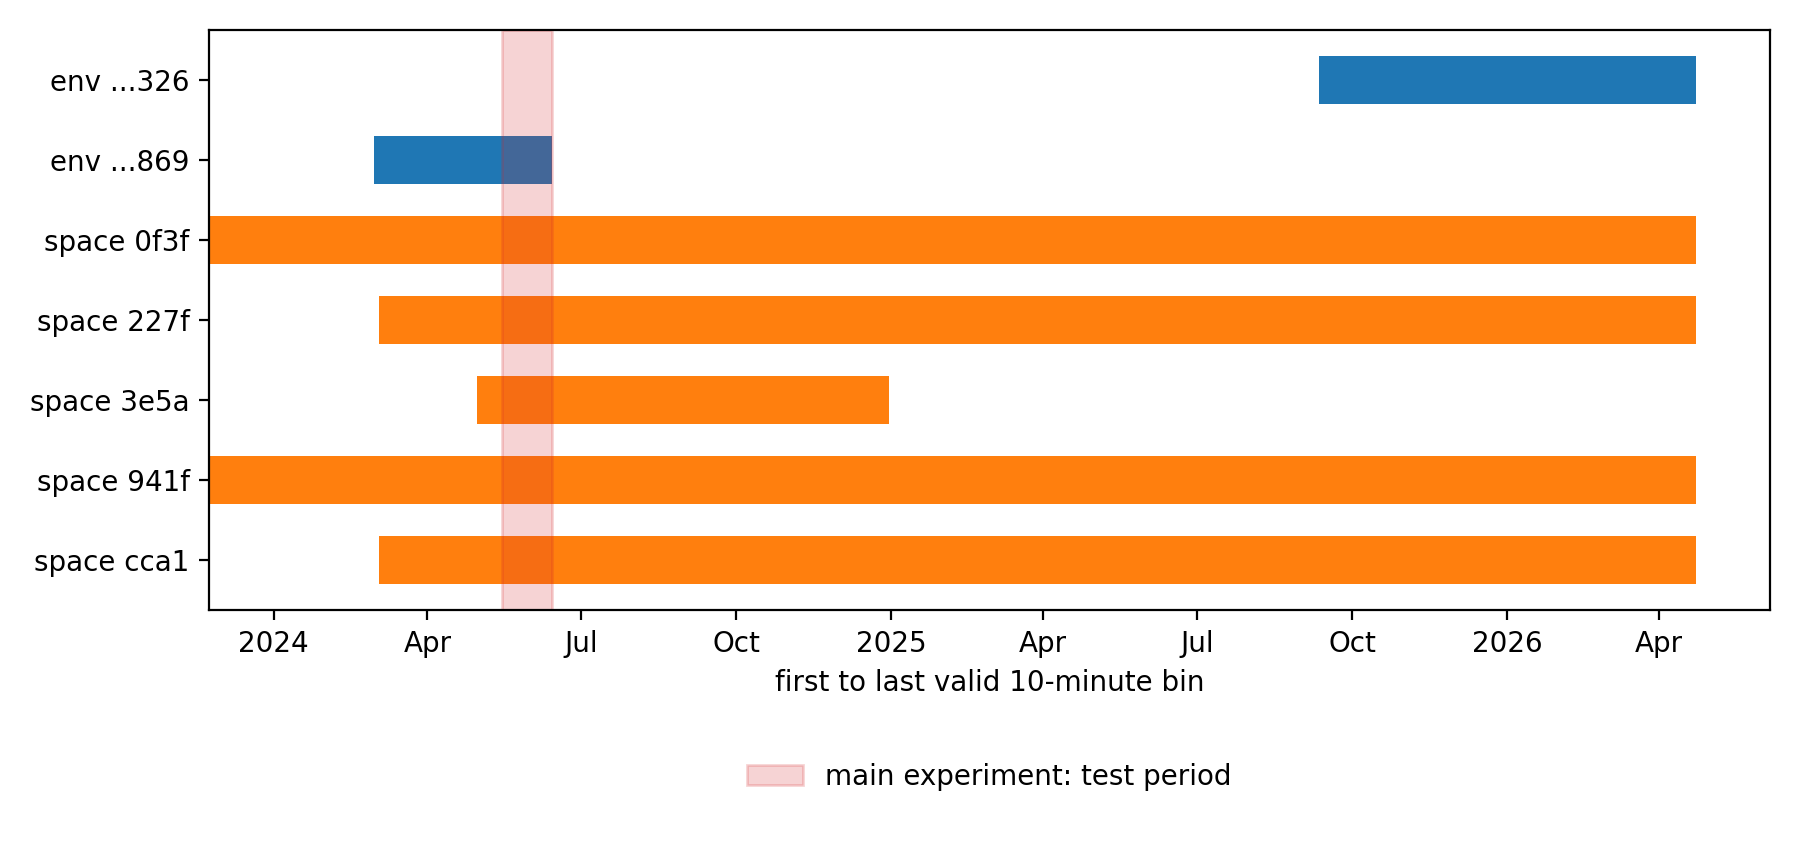
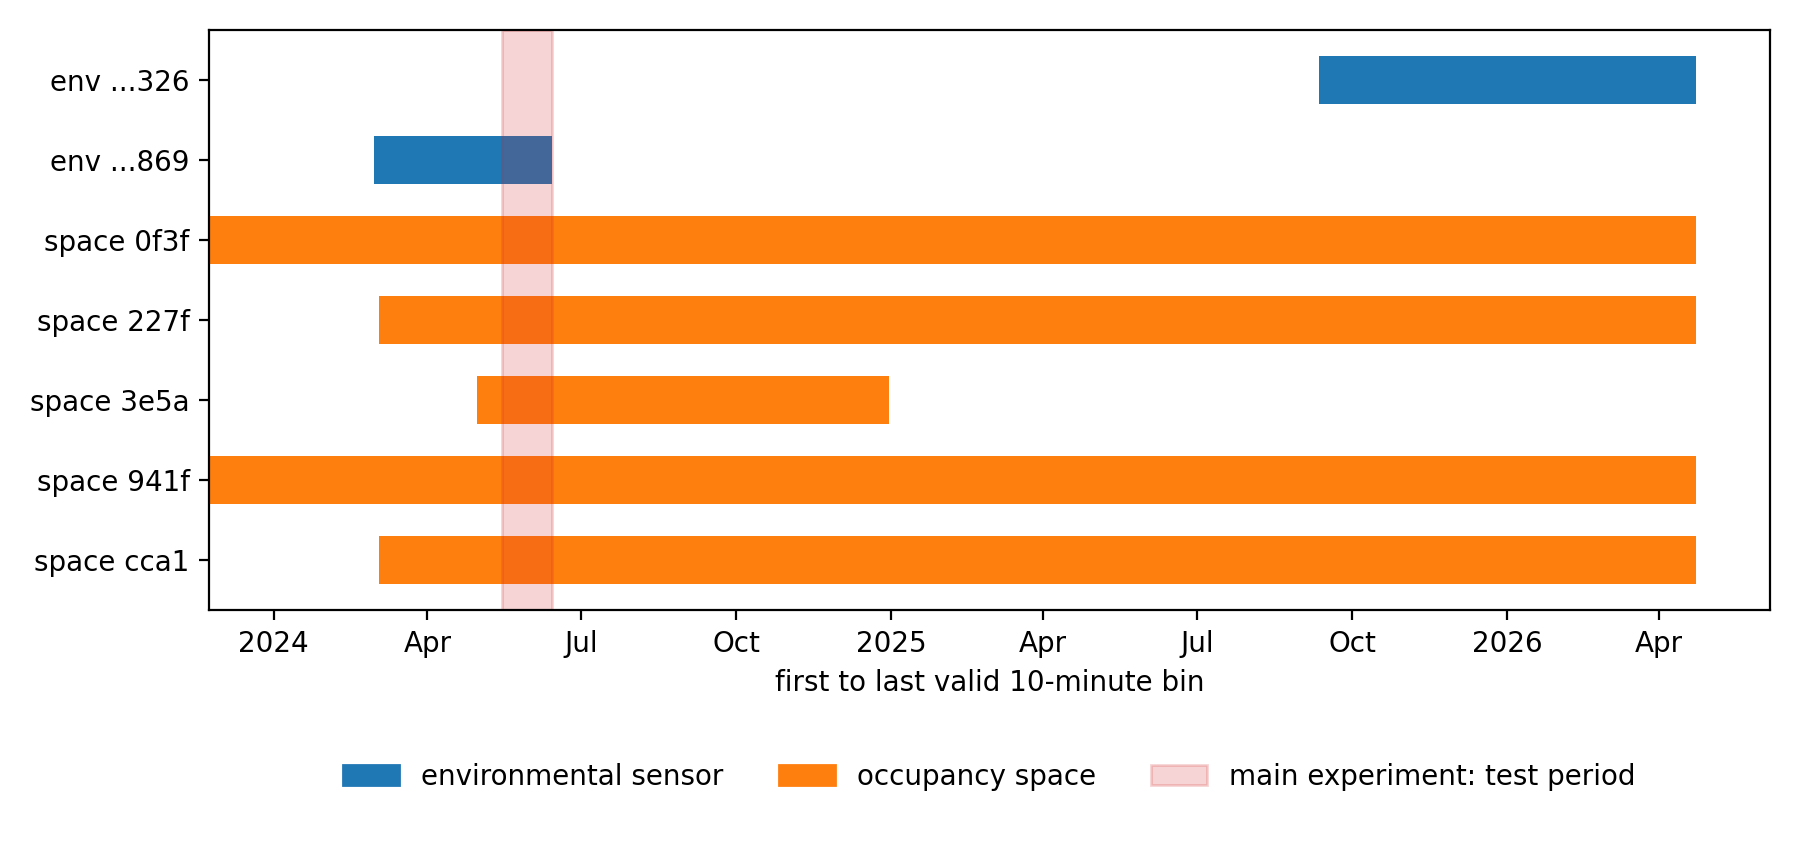
Improve figure readability: tick labels, legend, shared y-axis

Changed region(s): [[0.1867, 0.8892, 0.9022, 0.9505]]

diff --git a/src/occenv/figures.py b/src/occenv/figures.py
@@ -20,6 +20,7 @@ import matplotlib
 matplotlib.use("Agg")                      # no display needed
 import matplotlib.dates as mdates          # noqa: E402
 import matplotlib.pyplot as plt            # noqa: E402
+from matplotlib.patches import Patch       # noqa: E402
 import numpy as np                         # noqa: E402
 import pandas as pd                        # noqa: E402
 
@@ -84,7 +85,9 @@ def fig_data_audit(audit, path):
     ax[0].barh(["env rows"], [uniq], color=BLUE, label=f"unique readings: {uniq:,}")
     ax[0].barh(["env rows"], [raw - uniq], left=[uniq], color=GREY,
                label=f"repeats/unusable: {raw - uniq:,} ({100 * (raw - uniq) / raw:.0f}%)")
-    ax[0].set(title="A. Env rows in the raw file", xlabel="rows")
+    ax[0].set(title="A. Env rows in the raw file", xlabel="rows (thousands)")
+    ax[0].xaxis.set_major_locator(plt.MaxNLocator(5))
+    ax[0].xaxis.set_major_formatter(plt.FuncFormatter(lambda x, _: f"{x / 1000:.0f}"))
     ax[0].legend(loc="upper center", bbox_to_anchor=(0.5, -0.25), frameon=False)
     per = st["unique_per_sensor"]
     sensors = sorted(per)
@@ -129,10 +132,13 @@ def fig_availability(env, occ, path, test_window=None):
     fig, ax = plt.subplots(figsize=(9, 0.42 * len(rows) + 1.3))
     for i, (label, t0, t1, colour) in enumerate(rows):
         ax.barh(i, _num(t1) - _num(t0), left=_num(t0), color=colour, height=0.6)
+    handles = [Patch(color=BLUE, label="environmental sensor"),
+               Patch(color=ORANGE, label="occupancy space")]
     if test_window is not None:
-        ax.axvspan(_num(test_window[0]), _num(test_window[1]), color=RED, alpha=0.2,
-                   label="main experiment: test period")
-        ax.legend(loc="upper center", bbox_to_anchor=(0.5, -0.22), frameon=False)
+        ax.axvspan(_num(test_window[0]), _num(test_window[1]), color=RED, alpha=0.2)
+        handles.append(Patch(color=RED, alpha=0.2, label="main experiment: test period"))
+    ax.legend(handles=handles, loc="upper center", bbox_to_anchor=(0.5, -0.22), ncol=3,
+              frameon=False)
     ax.set_yticks(range(len(rows)), [r[0] for r in rows])
     ax.invert_yaxis()
     locator = mdates.AutoDateLocator()
@@ -198,16 +204,25 @@ def fig_co2_vs_headcount(df_main, path, label_main, df_control=None, label_contr
     panels = [(df_main, f"B. {label_main}: residuals")]
     if df_control is not None:
         panels.append((df_control, f"C. {label_control}: residuals"))
-    for j, (df, title) in enumerate(panels):
+    resids = [deseason(df.dropna(subset=["co2_ppm", "zone_hc"])[["co2_ppm", "zone_hc"]])
+              for df, _ in panels]
+    lo = min(r["co2_ppm"].quantile(0.005) for r in resids)      # shared range: 0.5th-99.5th percentile
+    hi = max(r["co2_ppm"].quantile(0.995) for r in resids)
+    pad = 0.05 * (hi - lo)
+    lo, hi = lo - pad, hi + pad
+    for j, ((df, title), res) in enumerate(zip(panels, resids)):
         a = fig.add_subplot(gs[1, j])
-        dd = df.dropna(subset=["co2_ppm", "zone_hc"])
-        res = deseason(dd[["co2_ppm", "zone_hc"]])
-        a.hexbin(res["zone_hc"], res["co2_ppm"], gridsize=30, mincnt=1, bins="log", cmap="Blues")
-        r = res["co2_ppm"].corr(res["zone_hc"])
+        keep = res["co2_ppm"].between(lo, hi)
+        a.hexbin(res.loc[keep, "zone_hc"], res.loc[keep, "co2_ppm"], gridsize=30, mincnt=1,
+                 bins="log", cmap="Blues")
+        r = res["co2_ppm"].corr(res["zone_hc"])                 # r uses ALL points, drawn or not
         a.set(title=f"{title} (r = {r:.2f})", xlabel="zone headcount minus weekly profile",
-              ylabel="CO2 minus weekly profile (ppm)")
+              ylabel="CO2 minus weekly profile (ppm)", ylim=(lo, hi))
         a.axhline(0, color=GREY, lw=0.5)
         a.axvline(0, color=GREY, lw=0.5)
+        if (~keep).sum():
+            a.text(0.98, 0.02, f"{int((~keep).sum())} extreme points not drawn (included in r)",
+                   transform=a.transAxes, ha="right", va="bottom", fontsize=7)
     return _save(fig, path)
 
 
